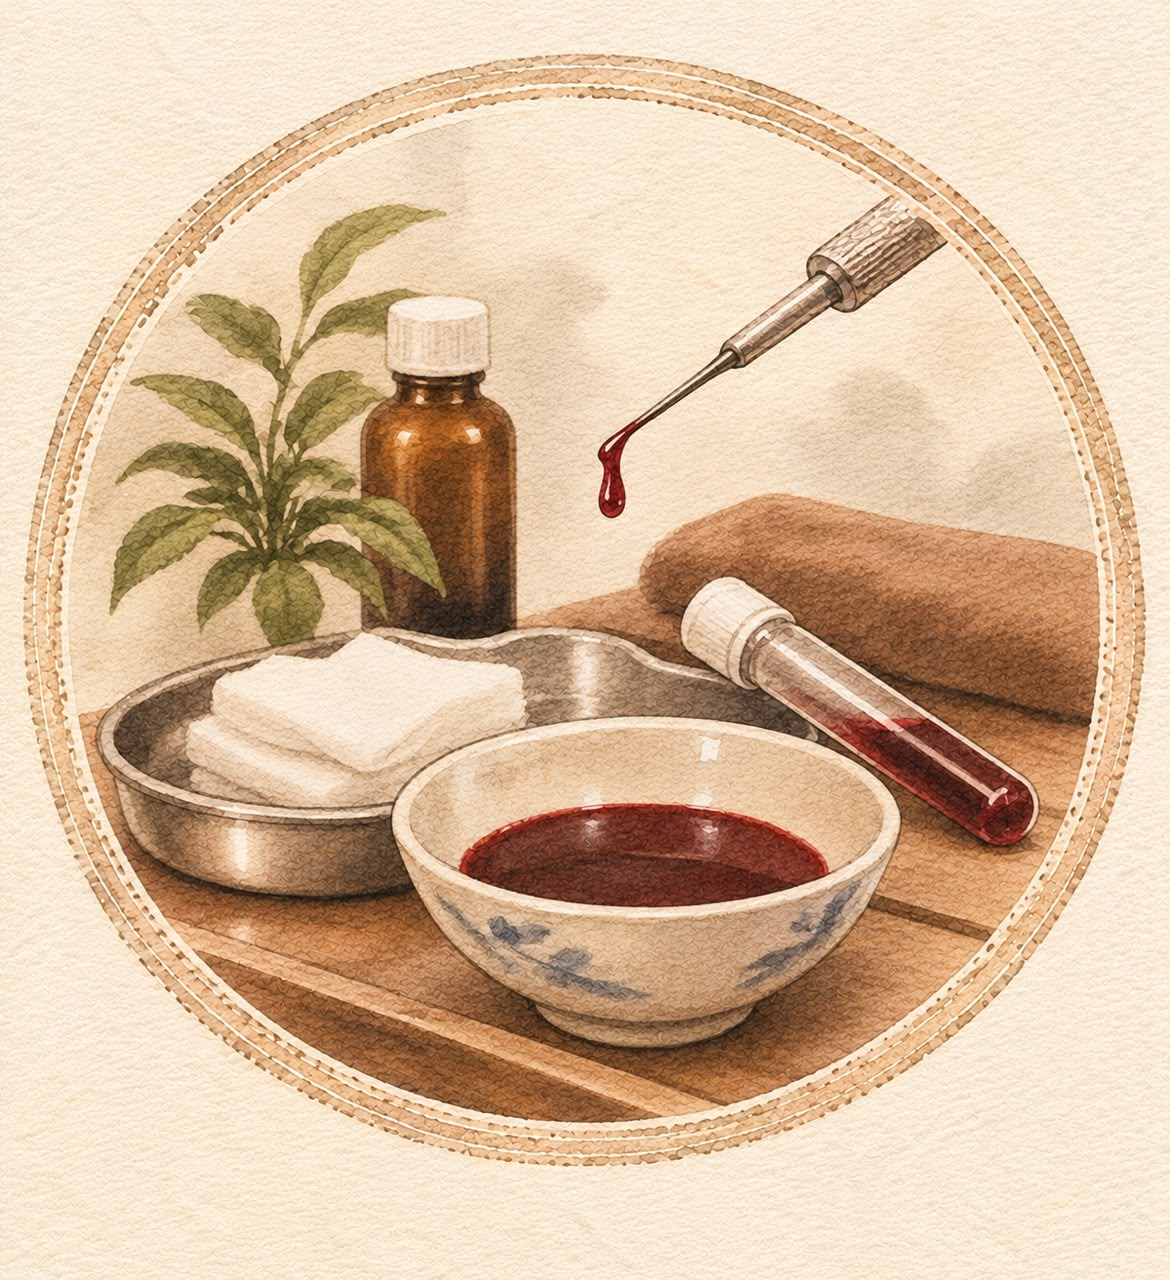
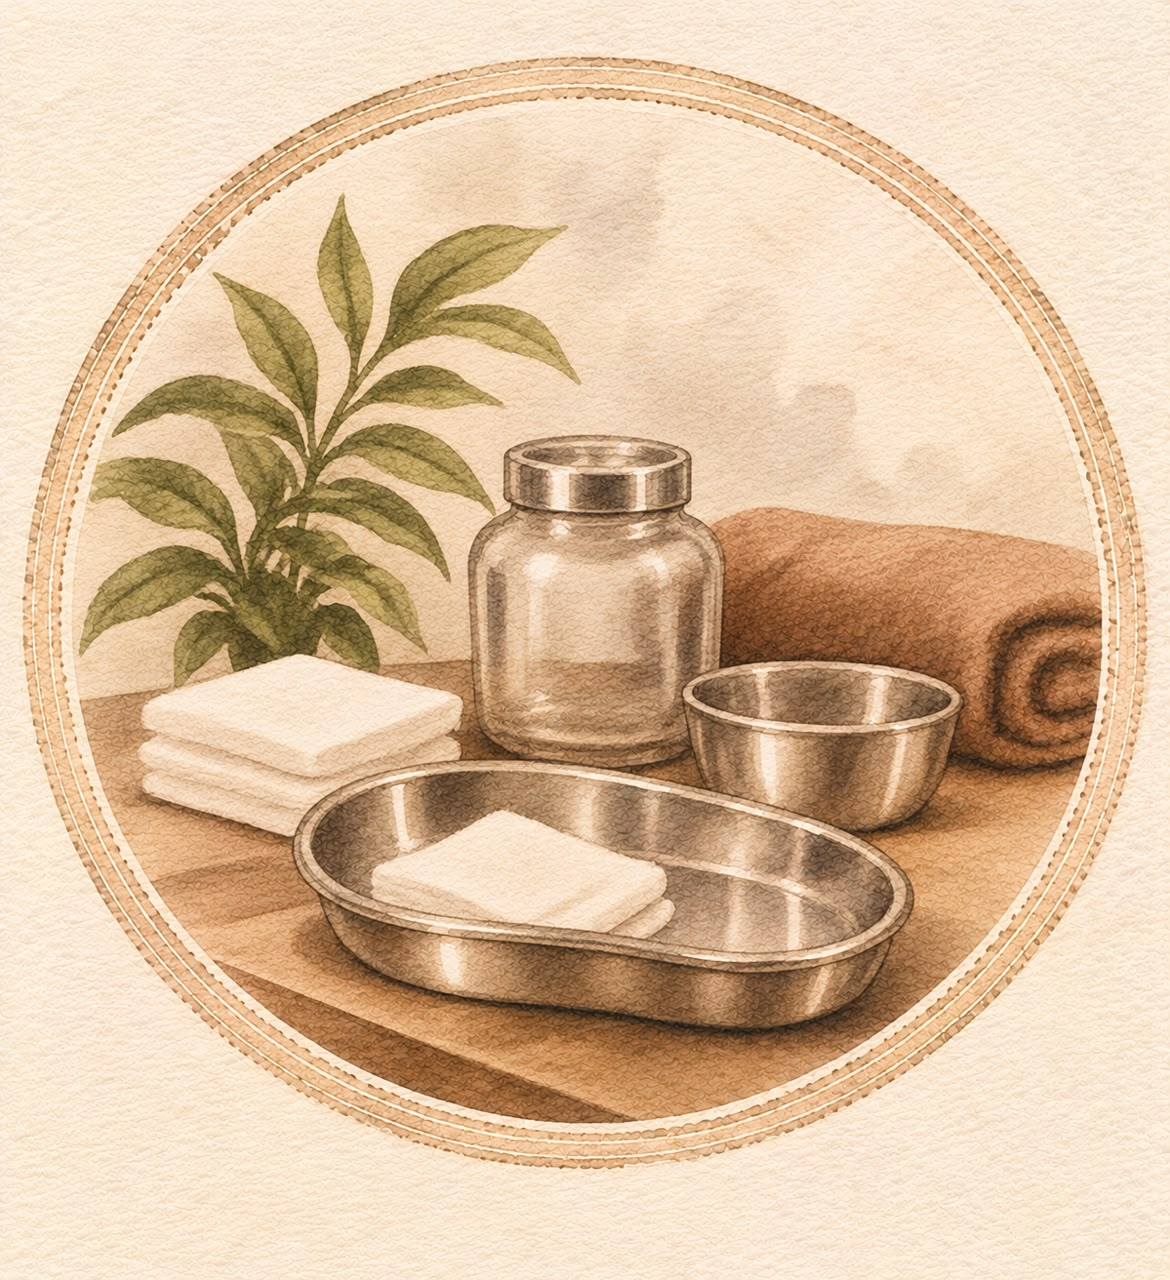
Update

diff --git a/index.html b/index.html
@@ -25,7 +25,7 @@
   <meta charset="UTF-8" />
   <meta name="viewport" content="width=device-width, initial-scale=1.0" />
   <title>EVALIFE WELLNESS | 专业身心养护与健康管理</title>
-  <meta name="description" content="EVALIFE WELLNESS 提供专业TCM调理、女性私密护理、再生护理与细胞再生健康疗法。欢迎预约到店体验。" />
+  <meta name="description" content="EVALIFE WELLNESS 提供专业自然调理、全周期养护、女性私密护理、再生护理与细胞再生健康疗法。欢迎预约到店体验。" />
   <link rel="icon" type="image/png" href="images/logo.png" />
 
   <!-- 引入 Tailwind CSS 与字体 -->
@@ -125,7 +125,7 @@
       <div class="py-1">
         <button onclick="switchPage('therapy'); toggleMobileMenu()" class="block w-full text-left font-medium text-stone-700">健康疗法</button>
         <div class="pl-4 mt-2 space-y-2 border-l-2 border-brand-accent/40">
-          <button onclick="switchPage('therapy', 'regen-care'); toggleMobileMenu()" class="block w-full text-left text-sm text-stone-600 py-1">↳ 再生护理</button>
+          <button onclick="switchPage('therapy', 'regen-care'); toggleMobileMenu()" class="block w-full text-left text-sm text-stone-600 py-1">↳ 抗衰老</button>
           <button onclick="switchPage('therapy', 'cell-regen'); toggleMobileMenu()" class="block w-full text-left text-sm text-stone-600 py-1">↳ 细胞再生</button>
         </div>
       </div>
@@ -492,20 +492,32 @@
     <!-- 3. 第一大核心板块：女神子宫保养排毒卡（6个项目 + 1个产品） -->
     <div class="max-w-6xl mx-auto px-4 sm:px-6 mt-16">
       <div class="bg-white rounded-3xl border border-stone-200 shadow-sm overflow-hidden">
-        <!-- 卡片顶部深色标题栏 -->
-        <div class="bg-gradient-to-r from-brand-dark via-brand-primary to-[#3A5A4B] p-8 sm:p-10 text-white flex flex-col md:flex-row md:items-center justify-between gap-4">
+        <!-- 卡片顶部深色标题栏（已加入放大版 RM 298 超值福利价） -->
+        <div class="bg-gradient-to-r from-brand-dark via-brand-primary to-[#3A5A4B] p-8 sm:p-10 text-white flex flex-col md:flex-row md:items-center justify-between gap-6">
           <div>
             <span class="text-xs font-bold tracking-widest text-brand-accent uppercase">
               GODDESS UTERUS MAINTENANCE DETOXIFICATION CARD
             </span>
             <h2 class="font-serif text-2xl sm:text-4xl font-bold mt-1">女神子宫保养排毒卡</h2>
             <p class="text-stone-200 text-xs sm:text-sm mt-2">
-              全方位生殖养护组合：一次集齐 <strong>6 个核心到店护理项目 + 1 款居家养护产品</strong>
+              一个价钱体验 <strong>6 个核心到店护理项目 + 1 款居家养护产品</strong>
             </p>
+            <span class="inline-block mt-3 bg-white/10 border border-white/20 text-brand-card text-xs px-3.5 py-1 rounded-full">
+              ✦ 让每一次护理都有不可复制的变化
+            </span>
           </div>
-          <div class="shrink-0">
-            <span class="inline-block bg-brand-accent text-white text-xs sm:text-sm font-bold px-5 py-2.5 rounded-full shadow">
-              ✦ 6个护理项目 + 1个严选产品
+
+          <!-- 右侧放大的 RM 298 价格高亮牌 -->
+          <div class="shrink-0 bg-white/10 backdrop-blur-md border border-brand-accent/50 rounded-2xl px-7 py-5 text-center md:text-right shadow-lg">
+            <span class="block text-xs font-bold tracking-widest text-brand-accent uppercase">
+              超值福利体验价 · NOW ONLY
+            </span>
+            <div class="mt-1 flex items-baseline justify-center md:justify-end gap-1.5">
+              <span class="text-sm sm:text-base font-medium text-stone-200">仅需 RM</span>
+              <span class="font-serif font-bold text-4xl sm:text-6xl text-white tracking-tight drop-shadow">298</span>
+            </div>
+            <span class="block text-[11px] text-stone-300 mt-1">
+              包含 6 项专属护理 + 1 盒草本护垫
             </span>
           </div>
         </div>
@@ -732,8 +744,8 @@
             无论是体验“女神子宫保养排毒卡（6项护理+1盒产品）”，还是进行“全方位骨龄与骨盆体态评估”，欢迎立即通过 WhatsApp 联系我们获取最新福利方案与预约时间。
           </p>
           <div class="pt-4 flex flex-wrap justify-center gap-4">
-            <a href="#" target="_blank" class="wa-link bg-brand-accent hover:bg-[#b88b68] text-white px-8 py-3.5 rounded-full text-sm font-medium transition shadow-lg">
-              WhatsApp 预约全周期养护
+            <a href="#" target="_blank" class="wa-link bg-brand-accent hover:bg-[#b88b68] text-white px-8 py-3.5 rounded-full text-sm font-bold transition shadow-lg">
+              WhatsApp 立即抢购 RM 298 全周期养护卡
             </a>
             <button onclick="switchPage('home')" class="bg-white/10 hover:bg-white/20 text-white border border-white/25 px-7 py-3.5 rounded-full text-sm font-medium transition backdrop-blur-sm">
               返回 Home 首页
@@ -1083,7 +1095,7 @@
 
   <!-- 页脚 -->
   <footer class="border-t border-stone-200 py-8 text-center text-xs text-stone-500 px-4">
-    <p>© <span id="year"></span> EVALIFE WELLNESS. All Rights Reserved.</p>
+    <p>© <span id="year"></span> EVALIFE WELLNESS SDN. BHD. All Rights Reserved.</p>
   </footer>
 
 
@@ -1230,7 +1242,7 @@
     });
 
     // ==========================================
-    // 第 2 页：TCM 调理 8 大项目数据配置
+    // 第 2 页：自然调理 8 大项目数据配置
     // ==========================================
     const TCM_PROJECTS = [
       {
@@ -1293,7 +1305,7 @@
         name: "太空舱",
         enName: "Far-Infrared Wellness Capsule",
         badges: ["远红外温热", "深层排汗", "赋能代谢"],
-        desc: "结合现代远红外线温热共振科技，平躺于舒适舱内即可享受全身360度均匀温养，加速深层脂汗排出与血液循环，躺着完成一次全身代谢SPA。",
+        desc: "结合现代远红外线温热共振科技, 平躺于舒适舱内即可享受全身360度均匀温养, 加速深层脂汗排出与血液循环, 躺着完成一次全身代谢SPA。",
         suitable: "适合：代谢缓慢、久坐缺乏运动、追求深度放松人群",
         image: "images/nc8.jpeg"
       }
@@ -1304,7 +1316,7 @@
       if (!grid) return;
 
       grid.innerHTML = TCM_PROJECTS.map(item => {
-        const waText = encodeURIComponent(`您好，我在 EVALIFE WELLNESS 官网看到 TCM 调理的【${item.name}】项目，想了解详情与预约时间。`);
+        const waText = encodeURIComponent(`您好，我在 EVALIFE WELLNESS 官网看到自然调理的【${item.name}】项目，想了解详情与预约时间。`);
         const waHref = `https://wa.me/${SITE_CONFIG.whatsappNumber}?text=${waText}`;
 
         return `
@@ -1361,10 +1373,10 @@
         slogan: "30秒快速私护 · 全植物基底弱酸配方",
         badges: ["草本萃取", "私密呵护", "清热除湿", "泡沫绵密"],
         highlights: [
-          "高效抑菌配方，2分钟快速杀灭99.9%致病菌，不易诱导耐药",
+          "高效抑菌配方, 2分钟快速杀灭99.9%致病菌, 不易诱导耐药",
           "专利西洋梨果多酚，抗氧化预防外阴衰老萎缩",
-          "弱酸pH值贴合私密环境，清热除湿、止痒除臭，清洁不破坏菌群",
-          "绵密泡沫免手搓设计，30秒完成精致清洁，便捷高效"
+          "弱酸pH值贴合私密环境, 清热除湿、止痒除臭，清洁不破坏菌群",
+          "绵密泡沫免手搓设计, 30秒完成精致清洁, 便捷高效"
         ],
         image: "images/fem-1.jpeg",
         fallbackImage: "https://images.unsplash.com/photo-1556228720-195a672e8a03?auto=format&fit=crop&w=800&q=80"
@@ -1541,7 +1553,7 @@
         categoryEn: "REJUVA NAD+ (ANTI AGING)",
         badge: "线粒体能量激活",
         image: "images/health3.jpeg",
-        intro: "直接补充人体随年龄流失的辅酶 NAD+，激活细胞线粒体能量引擎，修复受损 DNA，改善慢性疲劳、脑雾与初老迹象。",
+        intro: "直接补充人体随年龄流失的辅酶 NAD+，激活细胞线粒体能量引擎，修复受损 DNA, 改善慢性疲劳、脑雾与初老迹象。",
         items: [
           {
             title: "Rejuva NAD+ · 单次能量赋能",
@@ -1557,7 +1569,7 @@
         categoryEn: "MSC STEM CELL WELLNESS",
         badge: "旗舰细胞再生医学",
         image: "images/health4.jpeg",
-        intro: "甄选高活性间充质干细胞（MSC）与自然杀伤免疫细胞（NK），从根源替换并修复老化受损细胞，实现全身机能年轻化、局部精准抗衰及男性活力重塑。",
+        intro: "甄选高活性间充质干细胞 (MSC) 与自然杀伤免疫细胞 (NK) ，从根源替换并修复老化受损细胞，实现全身机能年轻化、局部精准抗衰及男性活力重塑。",
         items: [
           {
             title: "NK 2 Billion · 20亿高活性 NK 免疫细胞",
@@ -1585,11 +1597,11 @@
         intro: "在进行 MSC 干细胞或高阶再生疗程前，通过全面的专项血液与生化指标筛查，精准掌握身体底子，为医生量身定制安全、高效的细胞再生方案提供科学依据。",
         items: [
           {
-            title: "Pre-MSC Blood Test (Male) · MSC全身体检（男性）",
+            title: "Pre-MSC Blood Test (Male) · MSC全身体检 (男性)",
             sub: "男士专属疗程前全套血液与生化指标深度筛查"
           },
           {
-            title: "Pre-MSC Blood Test (Female) · MSC全身体检（女性）",
+            title: "Pre-MSC Blood Test (Female) · MSC全身体检 (女性)",
             sub: "女士专属疗程前全套血液与健康指标深度筛查"
           }
         ]
